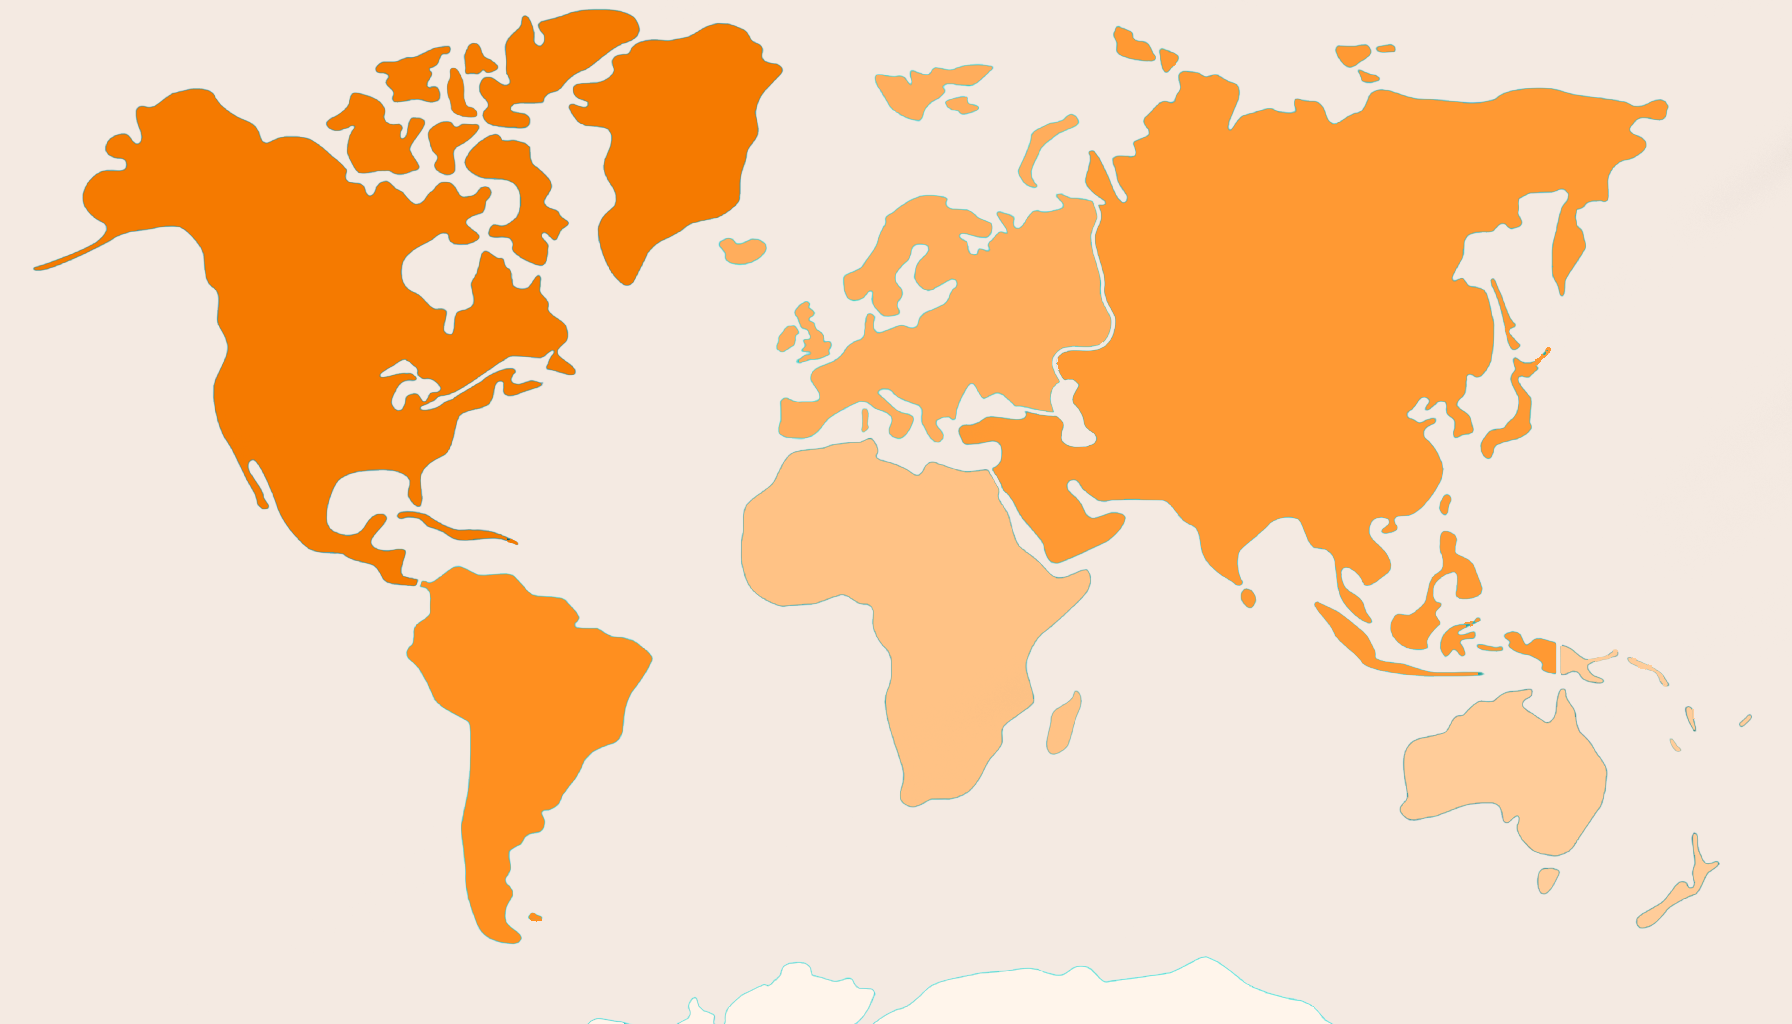
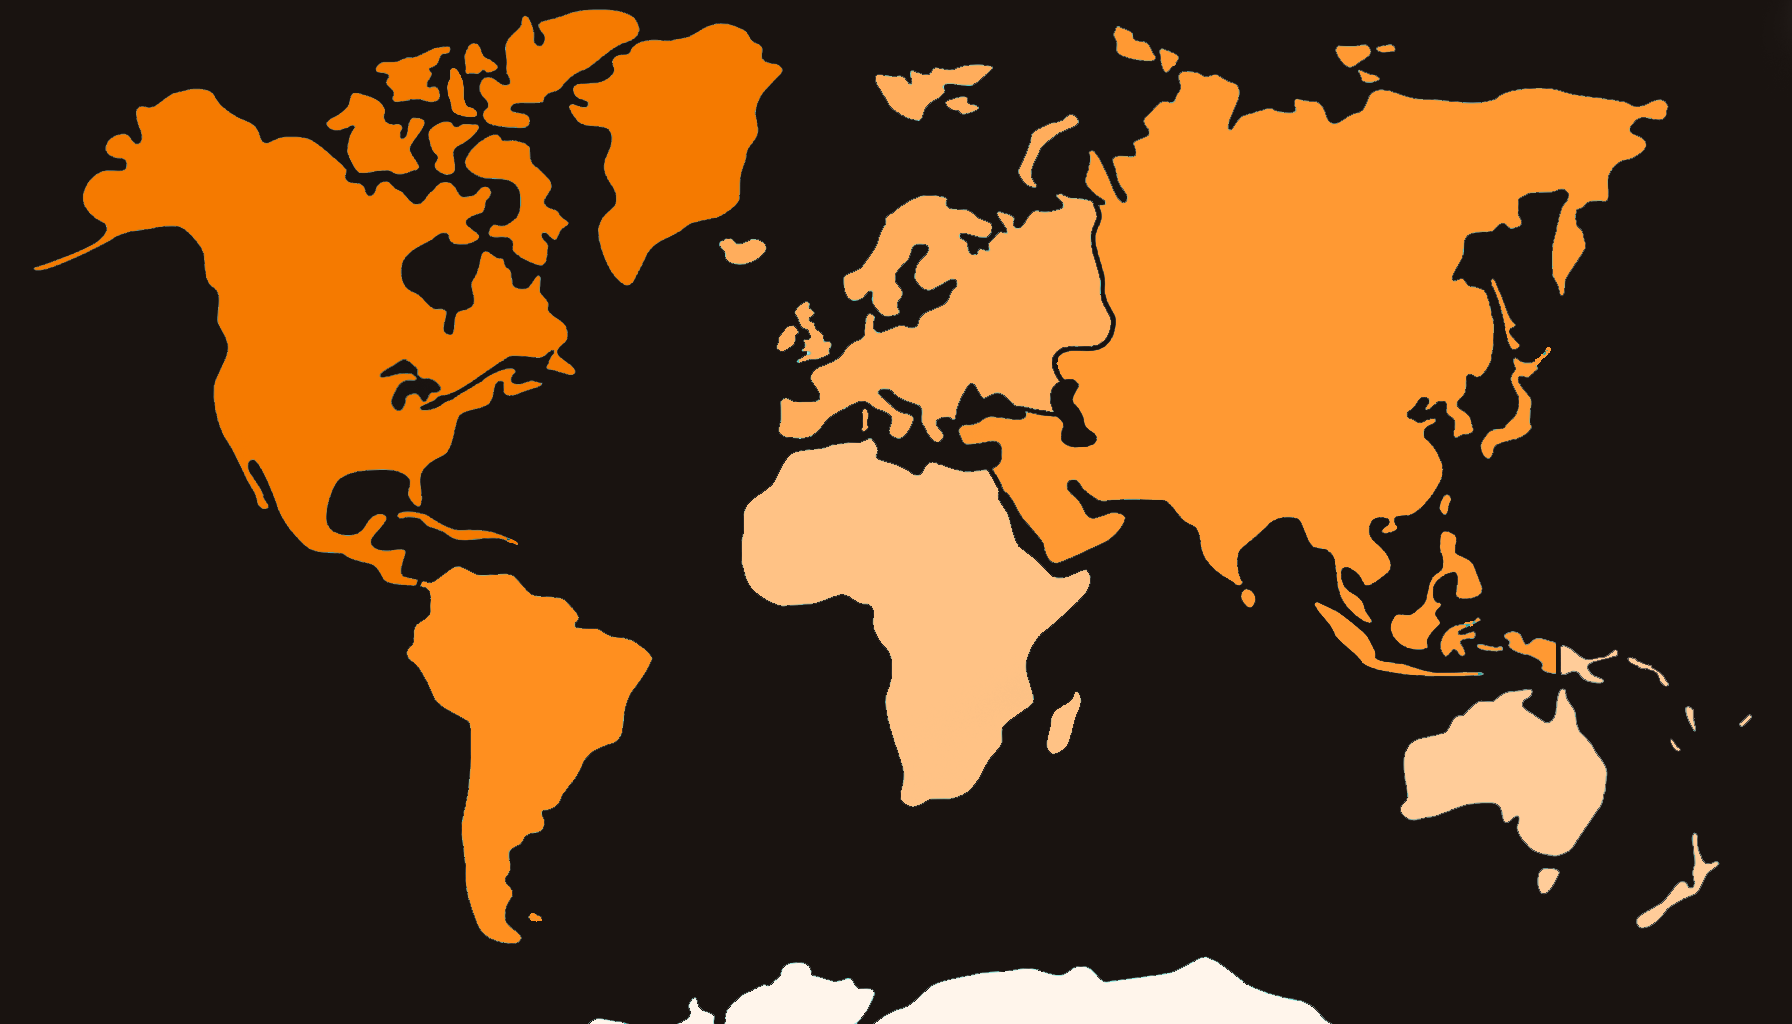
changed the background image of Contact us

diff --git a/src/Footer.jsx b/src/Footer.jsx
@@ -9,7 +9,7 @@ const Footer = () => {
     <footer className="footer">
       <div className="footer-content">
         <div className="footer-section brand">
-          <h2>Company Nmae</h2>
+          <h2>Company Name</h2>
           <p>Lorem ipsum dolor sit amet consectetur adipisicing elit. Ipsam, aut? Dolore nemo nisi unde ipsum odit fugiat, neque libero harum recusandae eaque obcaecati reprehenderit quibusdam veniam distinctio quam nulla totam.</p>
         </div>
 

diff --git a/src/Styles/Contact.css b/src/Styles/Contact.css
@@ -5,6 +5,7 @@
 .contactus
 {
   width: 100%;
+  color: #f9f5f1;
 }
 
 /*background image*/
@@ -28,13 +29,11 @@
   padding: 20px;
   border-radius: 10px;
 }
-  /* Card styling */
-  /* Country cards section */
 
 .addr h1 {
   margin-top: 40px;
   font-size: 7vh;
-  color: #191310;
+  color: #f9f5f1;
   text-align: center;
 }
 
